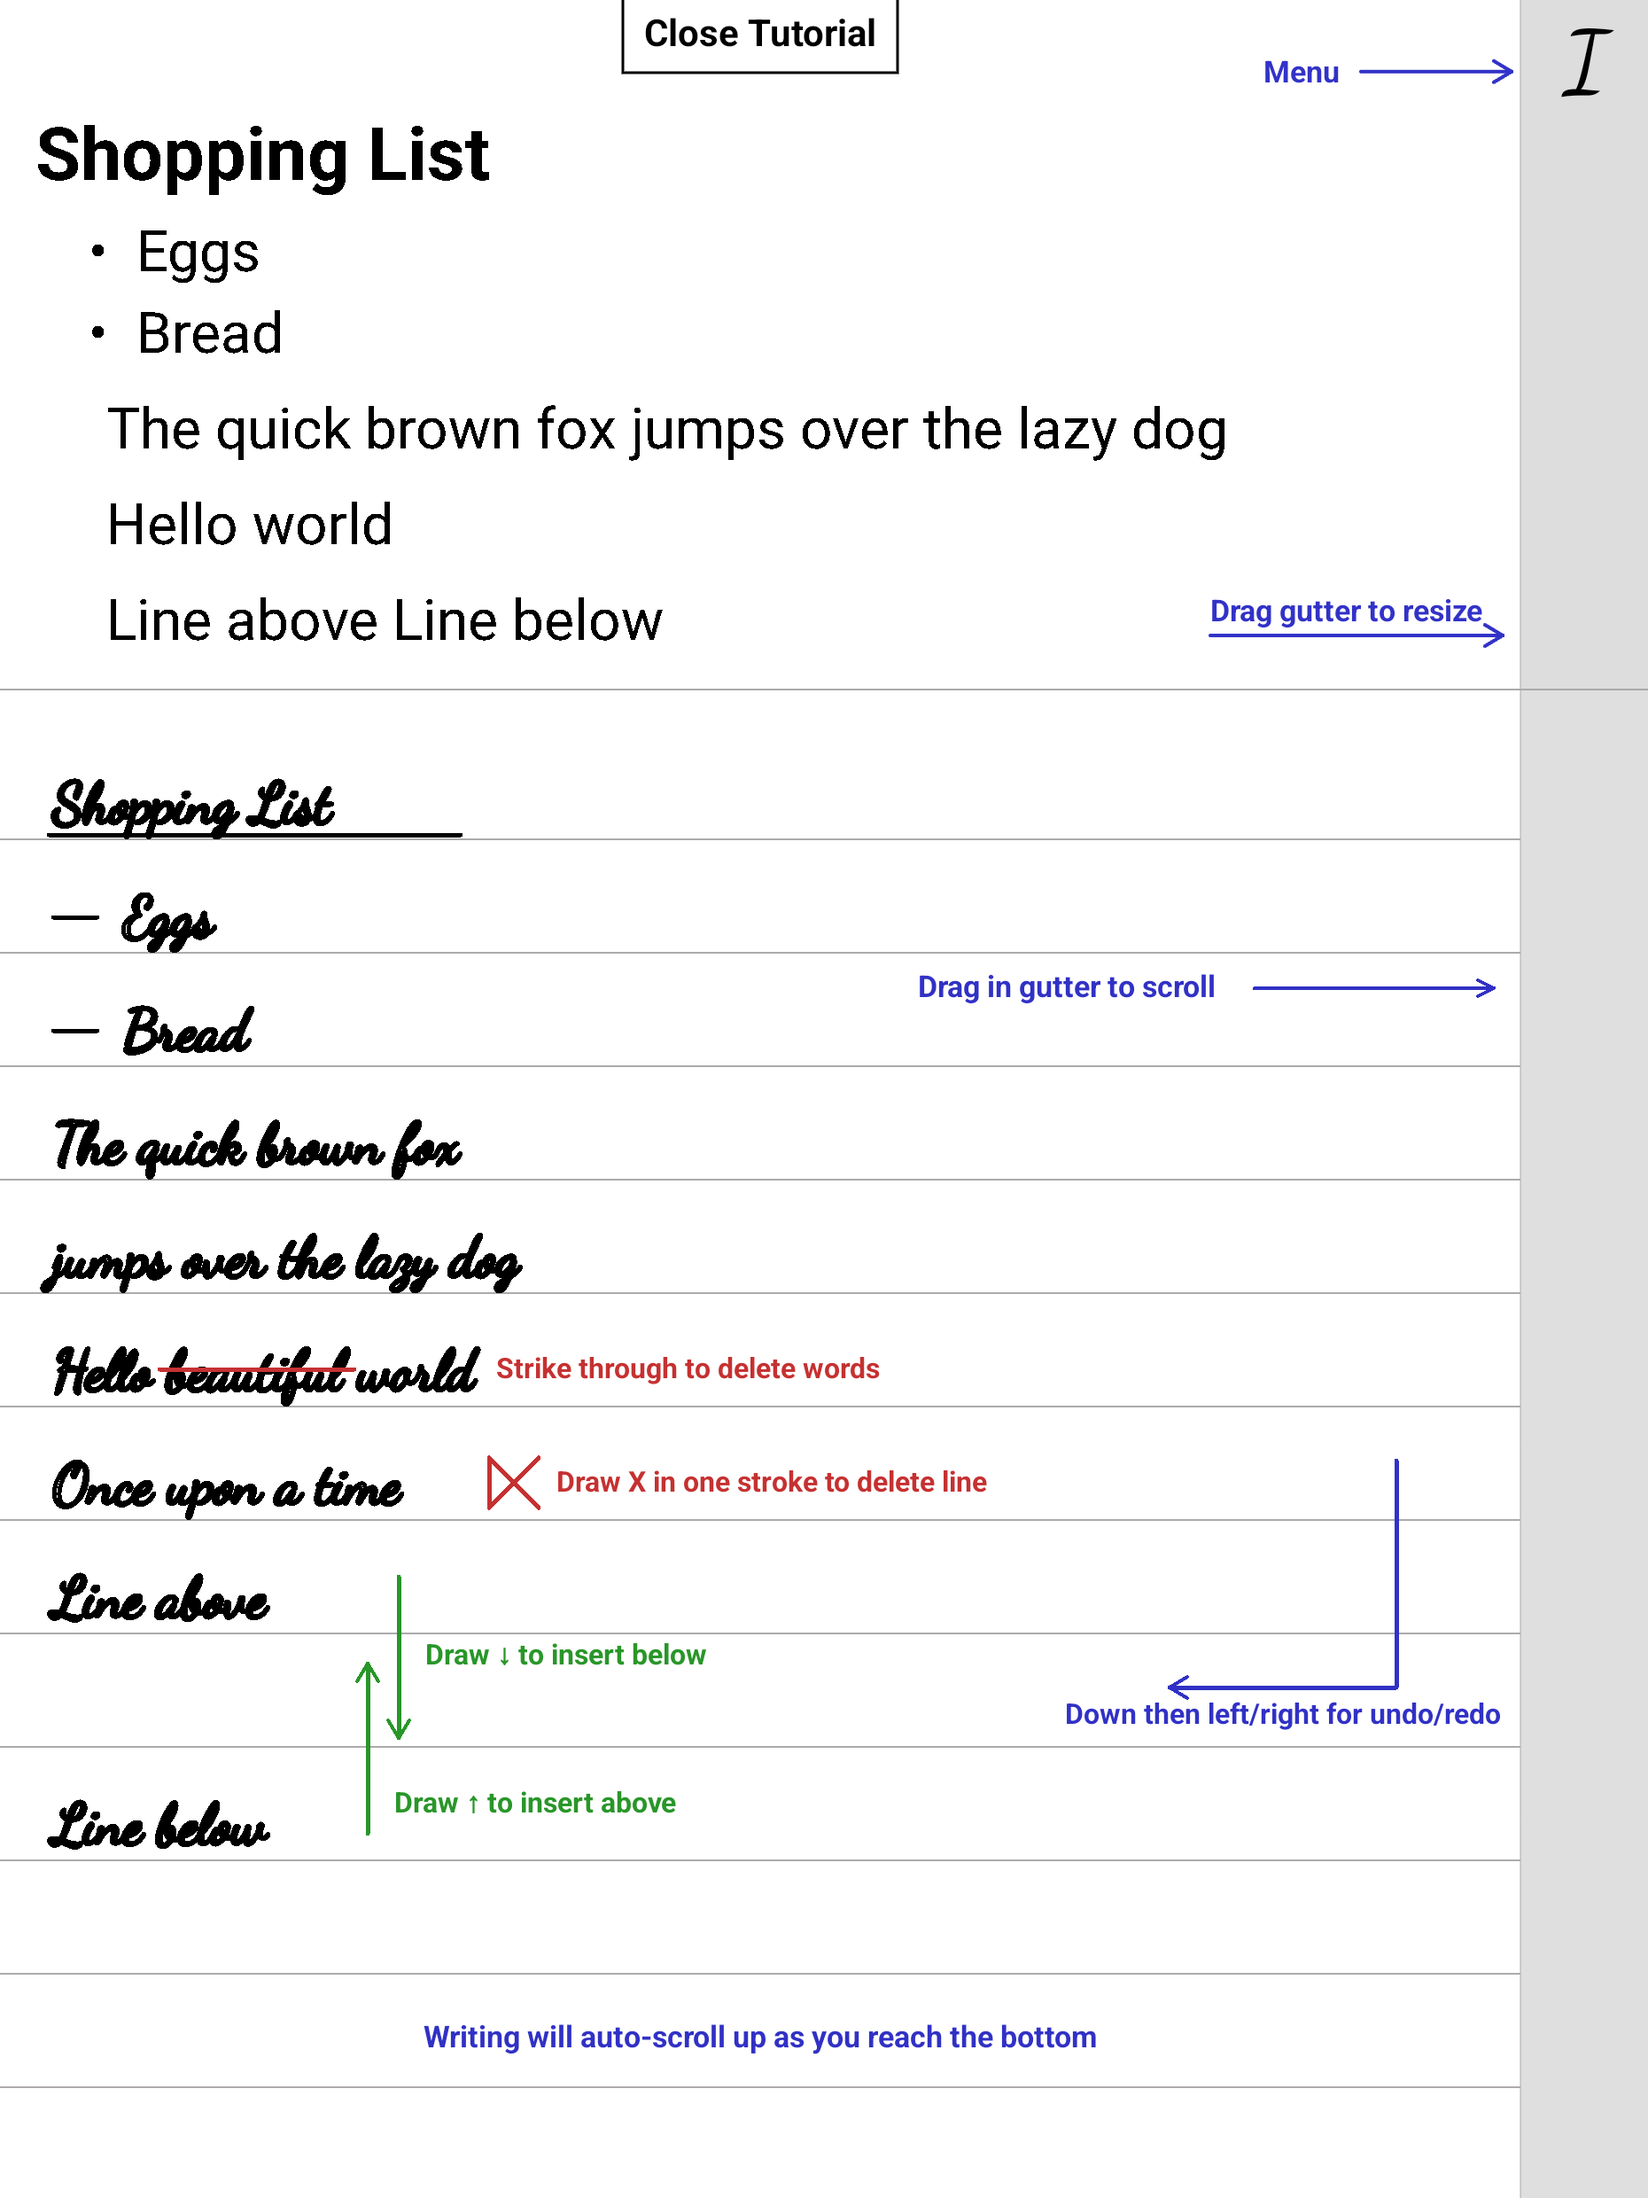
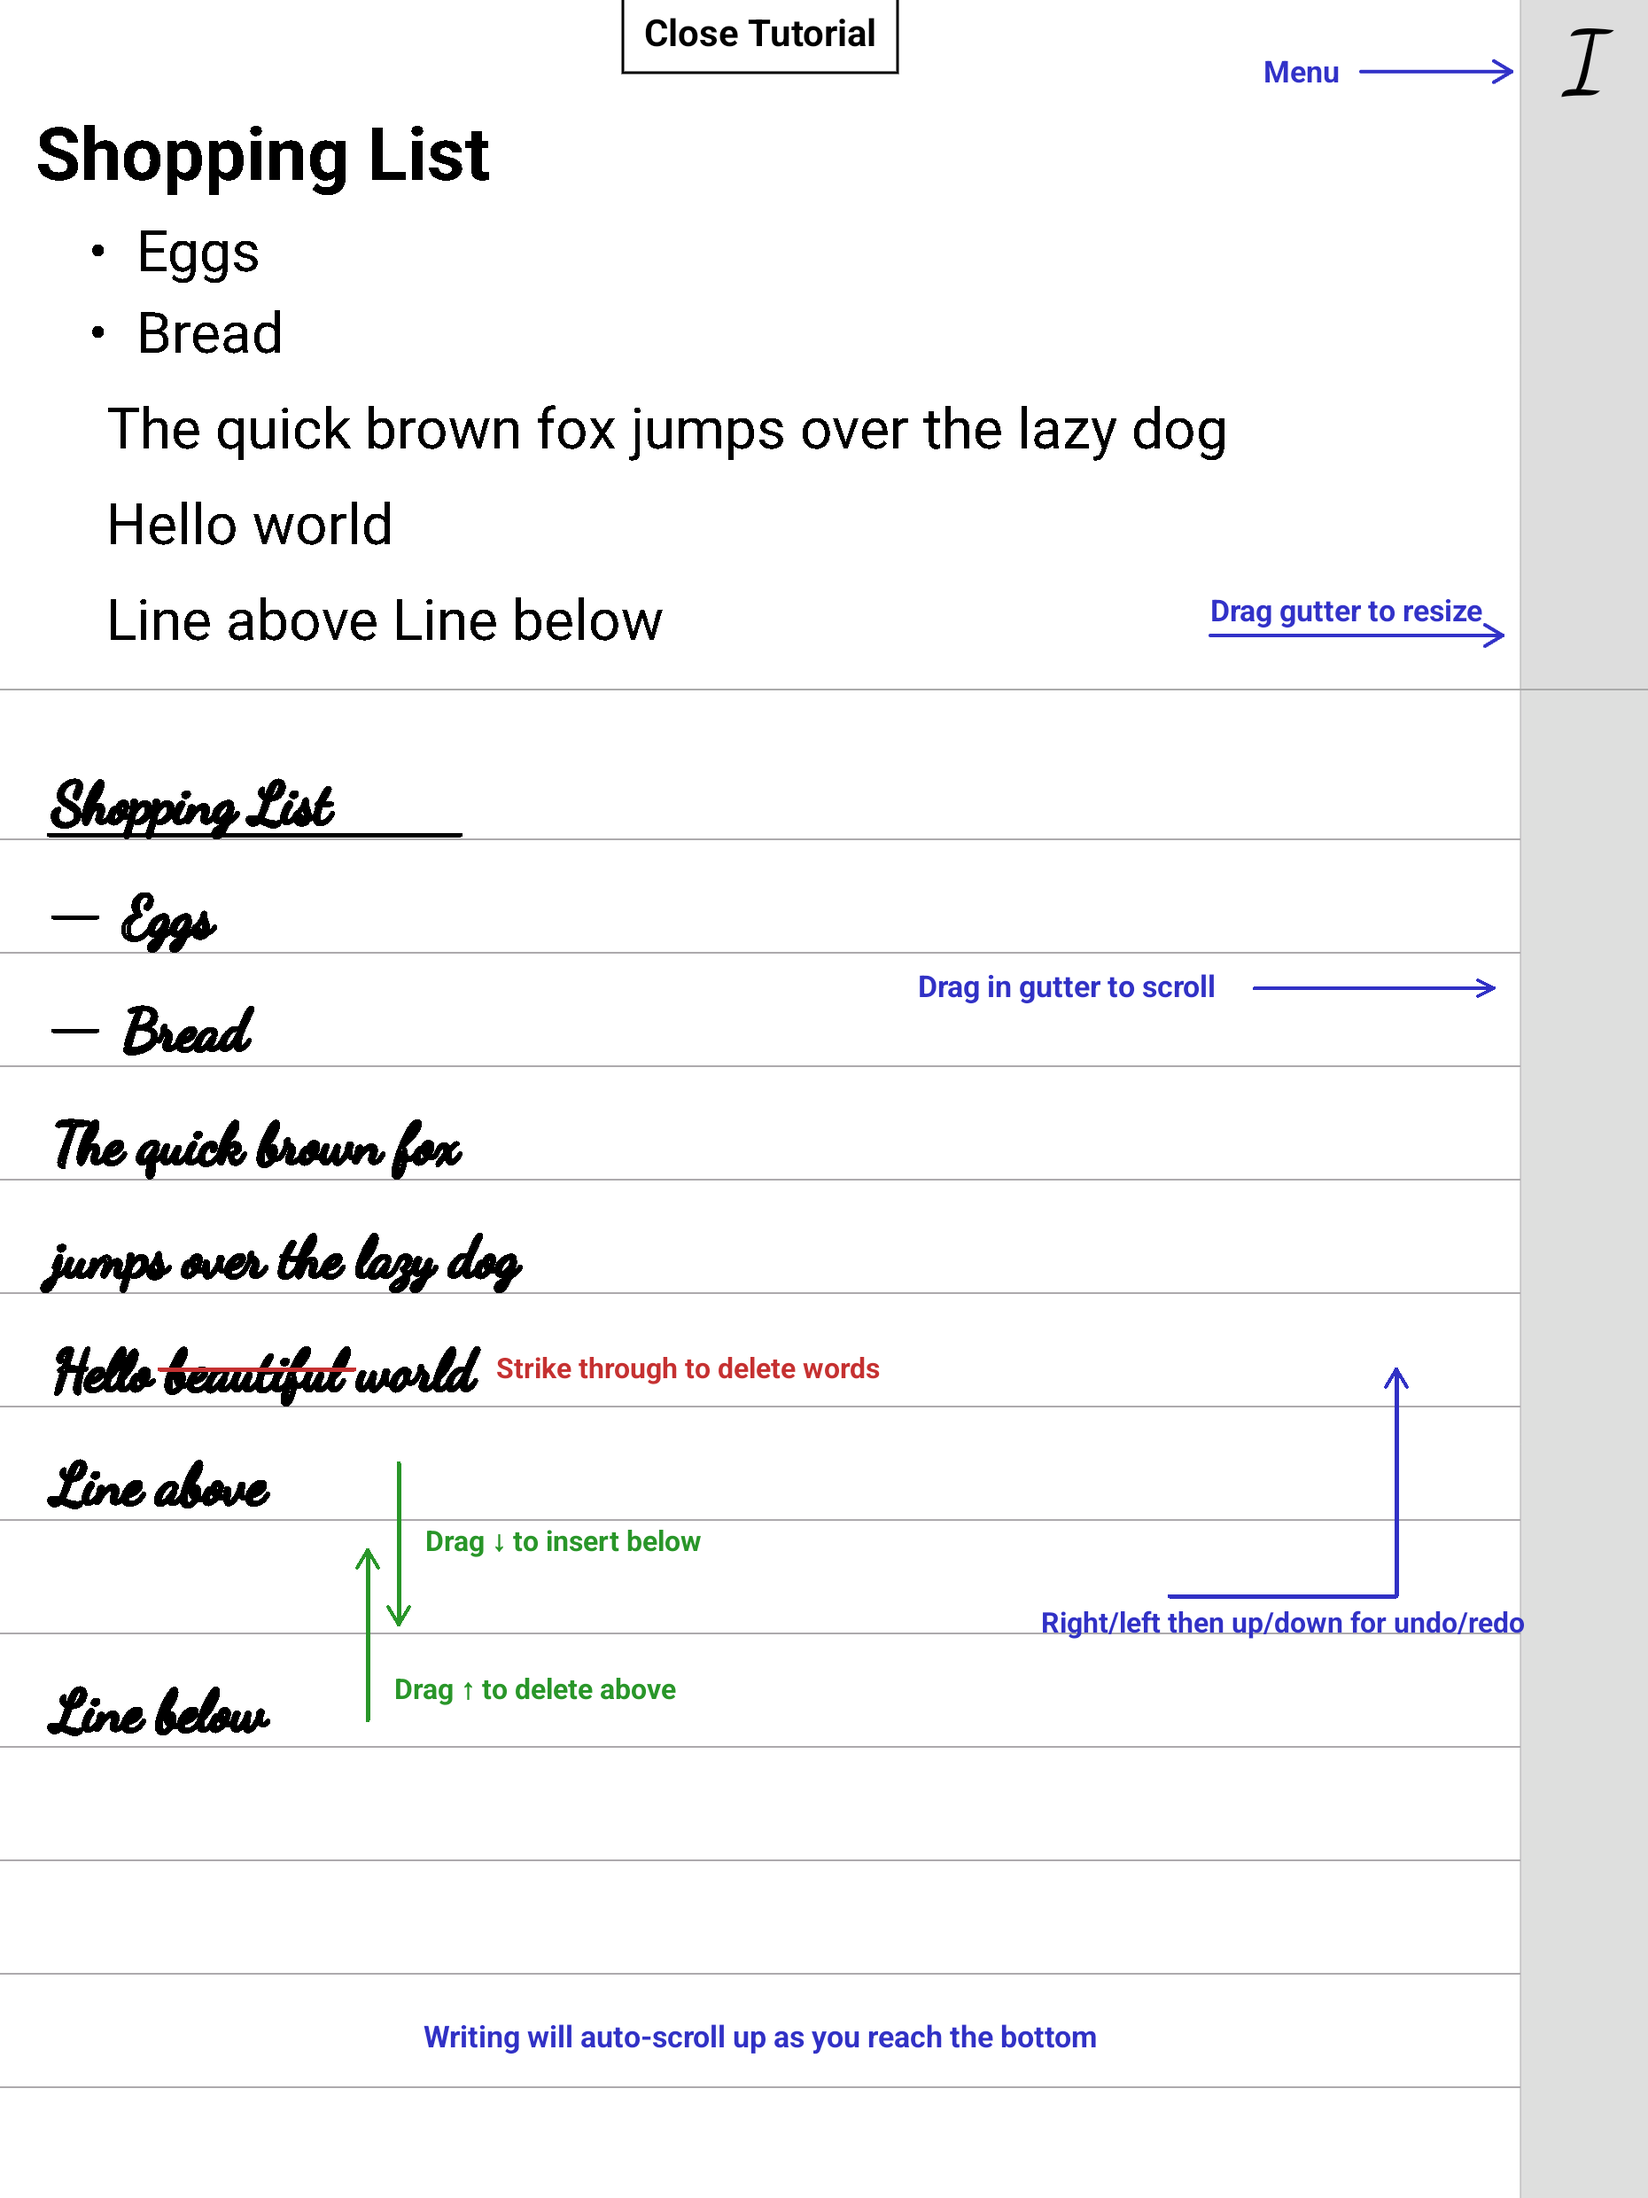
Update website screenshot with new gesture tutorial

diff --git a/docs/index.html b/docs/index.html
@@ -46,6 +46,19 @@
             box-shadow: 0 4px 24px rgba(0, 0, 0, 0.08);
         }
 
+        .intro {
+            max-width: 640px;
+            margin: 0 auto;
+            padding: 0 24px 48px;
+            text-align: center;
+        }
+
+        .intro p {
+            font-size: 1.1rem;
+            line-height: 1.7;
+            color: #444;
+        }
+
         .features {
             max-width: 640px;
             margin: 0 auto;
@@ -60,13 +73,31 @@
             text-align: center;
         }
 
+        .features h3 {
+            font-size: 1.15rem;
+            font-weight: 600;
+            margin: 32px 0 8px;
+        }
+
+        .features h3:first-of-type {
+            margin-top: 0;
+        }
+
+        .features p {
+            font-size: 1.05rem;
+            line-height: 1.6;
+            color: #444;
+            margin-bottom: 4px;
+        }
+
         .features ul {
             list-style: none;
             padding: 0;
+            margin: 8px 0 0;
         }
 
         .features li {
-            padding: 12px 0;
+            padding: 8px 0;
             border-bottom: 1px solid #eee;
             font-size: 1.05rem;
             line-height: 1.5;
@@ -104,21 +135,56 @@
         </div>
     </div>
 
+    <div class="intro">
+        <p>
+            I made InkUp because I just wanted to write. No menus, no toolbars, no page turns,
+            no fussing with settings. Just put pen to paper and have a well-formatted document
+            appear.
+        </p>
+    </div>
+
     <div class="features">
         <h2>How it works</h2>
+
+        <h3>Write and watch it appear</h3>
+        <p>
+            Your handwriting is recognized as you go. As lines scroll up off the writing area,
+            they appear as clean, formatted text above. You always see your recent handwriting
+            below and the finished document above.
+        </p>
+
+        <h3>Auto-scroll</h3>
+        <p>
+            As you write toward the bottom of the screen, pause and the page scrolls up automatically.
+            You never need to touch a scroll bar or turn a page. Just keep writing.
+        </p>
+
+        <h3>Editing gestures</h3>
+        <p>Everything is done with the pen. No buttons, no menus.</p>
         <ul>
-            <li><strong>Just write.</strong> Your handwriting is recognized in real time and rendered as formatted text.</li>
-            <li><strong>Strike through</strong> words to delete them. Draw an <strong>X</strong> to remove an entire line.</li>
-            <li><strong>Draw a vertical line</strong> to insert a blank line above or below.</li>
-            <li><strong>Underline</strong> a word to make it a heading.</li>
-            <li><strong>Draw a dash</strong> before your text to create a bulleted list item.</li>
-            <li><strong>Auto-scroll</strong> kicks in as you write toward the bottom.</li>
-            <li><strong>Export as markdown</strong> to share your notes anywhere.</li>
+            <li><strong>Strike through</strong> words to delete them.</li>
+            <li><strong>Drag down</strong> on a line to push it down and insert blank lines above.</li>
+            <li><strong>Drag up</strong> on a line to pull it up, removing lines above.</li>
+            <li><strong>Draw horizontally</strong> then move up or down to undo and redo.</li>
         </ul>
+
+        <h3>Formatting</h3>
+        <p>Structure your document with simple conventions:</p>
+        <ul>
+            <li><strong>Underline</strong> a line to make it a heading.</li>
+            <li><strong>Draw a dash</strong> before text to create a list item.</li>
+            <li><strong>Indent</strong> a line to start a new paragraph.</li>
+            <li>Consecutive lines are joined into paragraphs automatically.</li>
+        </ul>
+
+        <h3>Export</h3>
+        <p>
+            Export your document as markdown to share or edit anywhere.
+        </p>
     </div>
 
     <footer>
-        <a href="https://github.com/durham-goode/writer">View on GitHub</a>
+        <a href="https://github.com/DurhamG/InkUp">Share comments or issues on GitHub</a>
     </footer>
 </body>
 </html>

diff --git a/README.md b/README.md
@@ -7,8 +7,8 @@ Most note-taking apps on e-ink devices treat handwriting as an image or rely on 
 ## Features
 
 - **Live handwriting recognition** — write naturally and see your text appear as you go
-- **Gesture editing** — strike through words to delete them, draw an X to remove a line, draw a vertical stroke to insert a blank line
-- **Headings** — underline a word to make it a heading
-- **Bulleted lists** — draw a short dash before your text to create a list item
-- **Auto-scroll** — the page scrolls up as you write toward the bottom
+- **Gesture editing** — strike through words to delete them, drag lines up or down to insert or remove blank lines
+- **Undo/redo** — draw horizontally then move up to undo, down to redo
+- **Formatting** — underline a line for headings, draw a dash for list items, indent to start a new paragraph
+- **Auto-scroll** — pause at the bottom of the screen and the page scrolls up automatically
 - **Markdown export** — share your notes as clean markdown text
